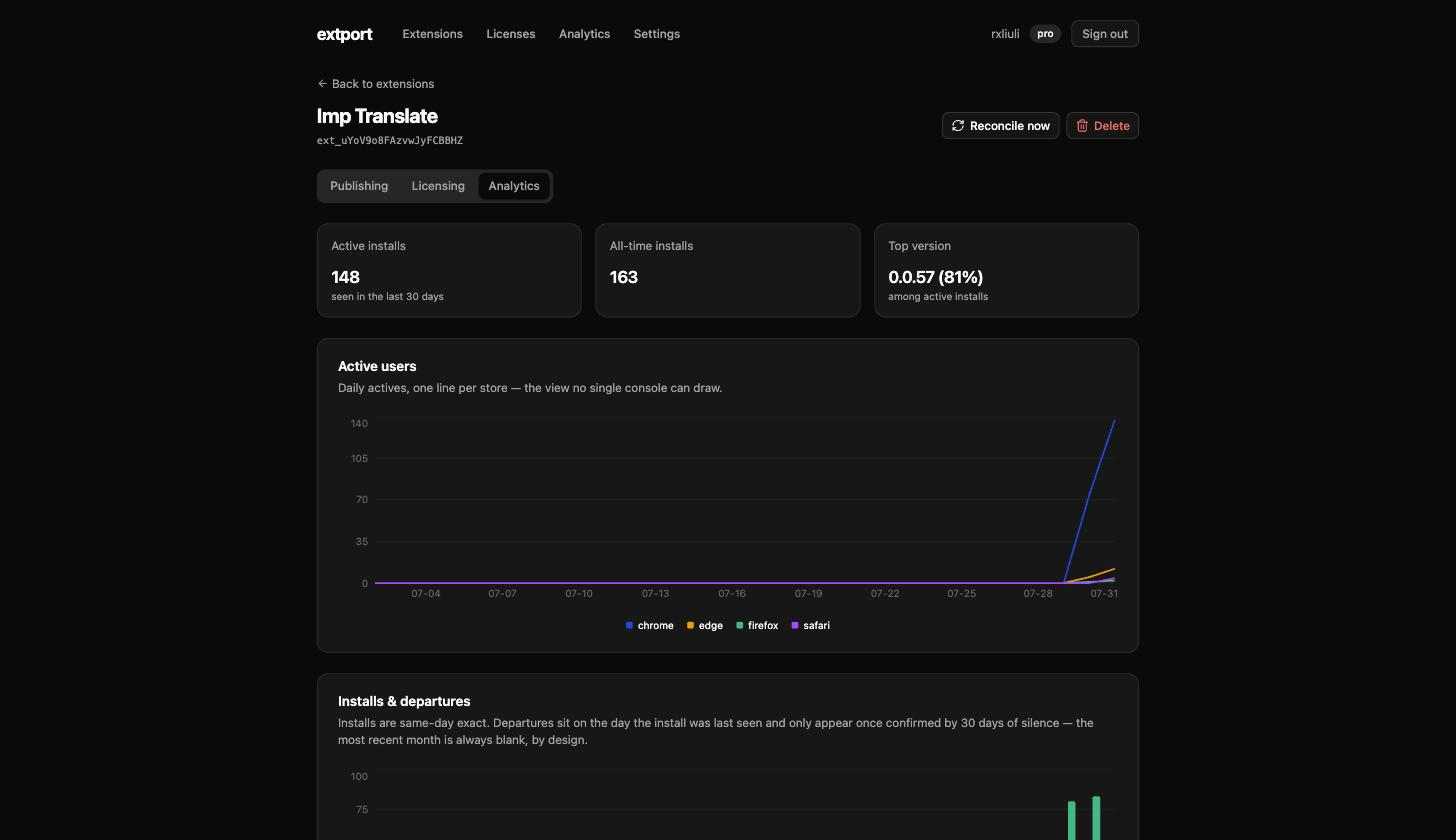
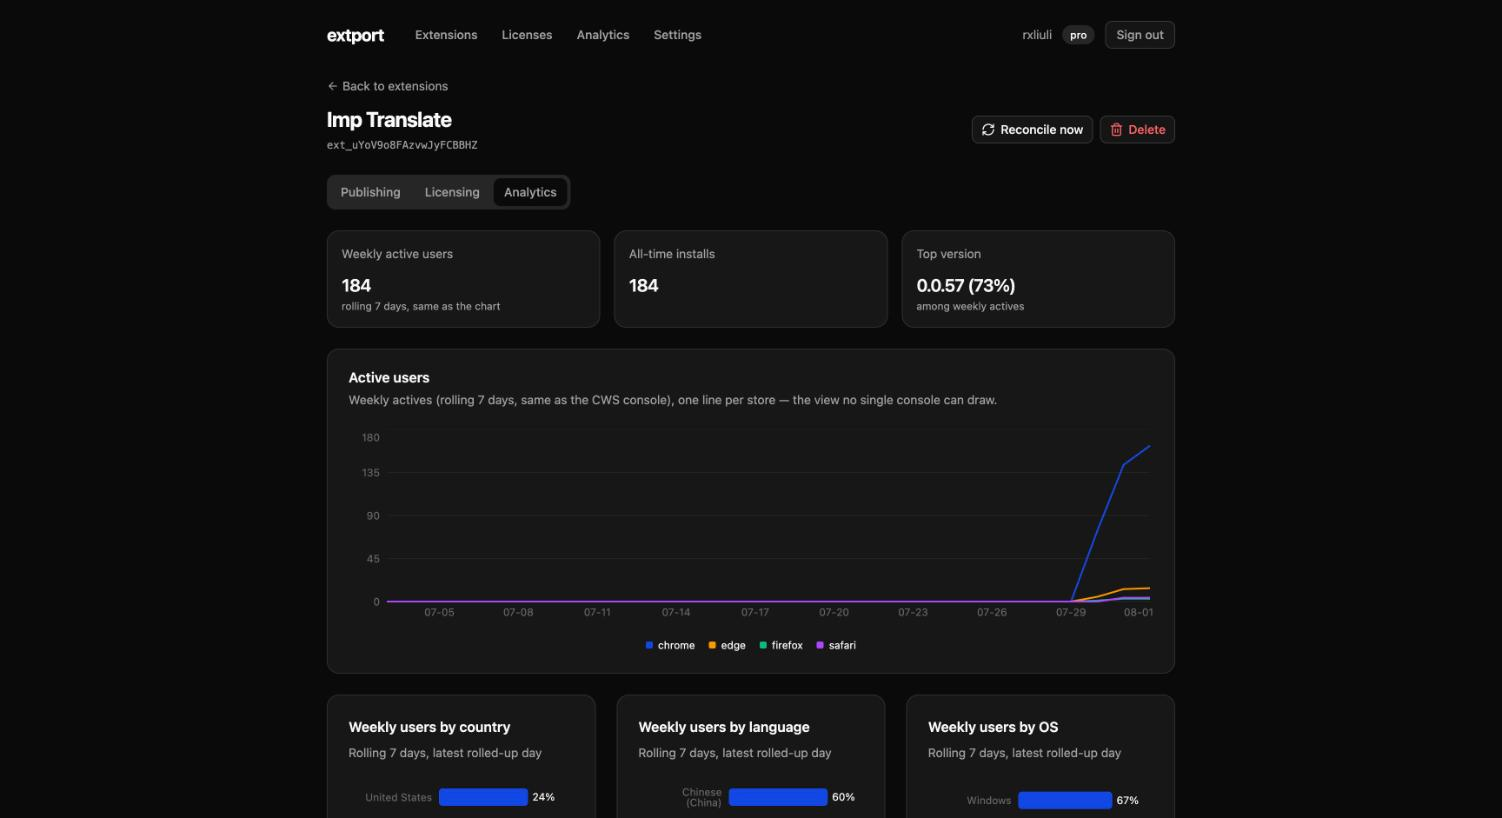
docs: npm READMEs, real getting-started, and the Safari certificate story
The three published packages had no README at all — their npm pages were
blank, which reads as abandoned to anyone arriving from a post. Each now
has a quickstart-shaped one (sdk: licensing + analytics with accurate
API names; wxt: the config block and what each key wires up, plus the
peer-dependency requirement; cli: command table and CI pointer),
published via patch bumps.

getting-started grows from 24 lines to the actual journey: sign-in,
create, then both wiring paths (extport init from scratch vs adding the
id to an existing project), and links all three modules.

The Safari page's certificate section — previously "generate one
yourself" with the real steps deferred to another repo — now explains
where the certificate lives (Apple Developer → Certificates, with a
screenshot anonymized to Apple's own placeholder identity), the
CSR-via-Keychain dance, which type to pick, the .p12 export, and the
base64 encoding, in place. Also retakes the stale analytics screenshot
with the current WAU dashboard.

diff --git a/apps/docs/src/content/docs/stores/safari.md b/apps/docs/src/content/docs/stores/safari.md
@@ -62,15 +62,46 @@ Or from CI:
 This builds and uploads every platform your Xcode project ships (macOS and/or iOS) — Safari's macOS and iOS
 listings run fully independent review timelines under the same App Store Connect app.
 
-### Always pass a signing certificate on CI
+## The signing certificate
 
 `certificate-base64`/`certificate-password` are technically optional, but skipping them on CI will eventually break
 your builds. A GitHub-hosted runner's keychain starts empty every run, so without a certificate already sitting in
 it, cloud signing asks Apple to mint a brand new one each time — and since that certificate's private key is
 destroyed with the runner at the end of the job, it's unusable ever again. Every run silently burns one certificate
 for good until your Apple Developer account hits its cap on how many it'll allow, at which point every build starts
-failing with "Your account has reached the maximum number of certificates." Generate one certificate yourself,
-export it as a `.p12`, base64-encode it, and store it (and its export password) as repo secrets — the same
-certificate works across every extension you build, since it's tied to your Apple Developer account rather than any
-one app. See [`extport-dev/actions`](https://github.com/extport-dev/actions#signing-certificate) for the exact
-steps.
+failing with "Your account has reached the maximum number of certificates."
+
+The fix is to create **one** certificate yourself and reuse it everywhere: it's tied to your Apple Developer
+account, not any one app, so the same `.p12` signs every extension you build.
+
+### Where the certificate comes from
+
+This is a different credential from the App Store Connect API key above — it lives on the
+[Apple Developer → Certificates](https://developer.apple.com/account/resources/certificates/list) page, and
+creating one is a three-step dance between that page and the Keychain Access app on your Mac:
+
+![The Apple Developer Certificates page, showing the certificate list with its Type column ("Distribution", platform "All") and the + button for creating a new one](../../../assets/screenshots/safari-developer-certificates.jpg)
+
+1. **Generate a signing request (CSR) on your Mac.** Open **Keychain Access** (in `/Applications/Utilities`), then
+   menu bar → **Keychain Access → Certificate Assistant → Request a Certificate From a Certificate Authority…**
+   Fill in your email, leave "CA Email Address" empty, choose **Saved to disk**, and save the
+   `CertificateSigningRequest.certSigningRequest` file.
+2. **Create the certificate on Apple's site.** On
+   [the Certificates page](https://developer.apple.com/account/resources/certificates/list), click **+**, choose
+   **Apple Distribution** (one certificate covers both the Mac App Store and iOS App Store), upload the CSR file,
+   and download the resulting `.cer`.
+3. **Install and export as `.p12`.** Double-click the downloaded `.cer` to add it to your keychain, then in
+   Keychain Access under **My Certificates**, right-click the new "Apple Distribution: …" entry →
+   **Export…** → file format **Personal Information Exchange (.p12)** — it will ask you to set an export
+   password. (The `.p12` bundles the certificate *with its private key*, which only exists in the keychain that
+   generated the CSR — that's why the export has to happen on the same Mac.)
+
+Then encode it and store both halves as repo secrets:
+
+```sh
+base64 -i Certificates.p12 | pbcopy   # → APPLE_CERTIFICATE_BASE64
+# the export password you chose      # → APPLE_CERTIFICATE_PASSWORD
+```
+
+Treat the `.p12` and its password like a production key: anyone holding both can sign software as you. Delete the
+local file once the secrets are stored.

diff --git a/apps/docs/src/content/docs/getting-started.md b/apps/docs/src/content/docs/getting-started.md
@@ -1,6 +1,6 @@
 ---
 title: Getting started
-description: Sign in and create your first extension.
+description: Sign in, create your first extension, and pick your path — new project or existing one.
 ---
 
 extport is currently in closed beta — new accounts are reviewed by hand. Sign in once and you'll either land in the
@@ -13,12 +13,54 @@ Go to [dash.extport.dev](https://dash.extport.dev) and sign in with GitHub.
 
 ## 2. Create an extension
 
-Click **Add** and give it a name. This is the thing you'll push versions to and sell licenses for — one extension
-can have a target configured for each of Chrome, Firefox, Edge, and Safari, and its own licensing plans.
+Click **Add** and give it a name. This is the thing you'll push versions to, sell licenses for, and see usage
+analytics on — one extension can have a target configured for each of Chrome, Firefox, Edge, and Safari, and its
+own licensing plans.
 
 ![The Extensions list with a "Redirector" extension added, showing empty Chrome/Firefox/Edge/Safari status columns](../../assets/screenshots/dashboard-extensions-list.png)
 
+The name matters more than it looks: it's the identity your licensing plans verify against, so it freezes while
+licensing is enabled. Pick the name your extension actually ships under.
+
+## 3. Wire up your project
+
+Two paths, depending on where you're starting from:
+
+**Starting a new extension?** Let the scaffold do all of it:
+
+```sh
+npx extport login
+npx extport init
+```
+
+`extport init` creates a [WXT](https://wxt.dev) project pre-wired with [`@extport/wxt`](https://www.npmjs.com/package/@extport/wxt),
+bound to a real extension record from birth — including the GitHub Actions workflow that pushes to every store when
+you bump the version. It can also create the extension record for you, so steps 2 and 3 collapse into one.
+
+**Have an existing extension?** Add the id to your project so the CLI, SDK, and CI all resolve it without
+hardcoding:
+
+```ts
+// wxt.config.ts (WXT projects — recommended)
+export default defineConfig({
+  modules: ['@extport/wxt'],
+  extport: { extension: 'ext_…' }, // the id shown under your extension's name in the dashboard
+})
+```
+
+Not on WXT? Create `extport.config.json` next to your `package.json` instead:
+
+```json
+{ "extension": "ext_…" }
+```
+
 ## What's next
 
-- [Publishing](/publishing/) — add store credentials, connect a store target, and push your first build.
-- [Licensing](/licensing/) — sell activation codes through your own Stripe Payment Link.
+Each module is independent — adopt any of them, in any order:
+
+- [Publishing](/publishing/) — add store credentials, connect store targets, and push your first build to every
+  store from one command.
+- [Licensing](/licensing/) — sell lifetime activation codes through your own Stripe Payment Link; extport fulfills
+  and verifies them.
+- [Analytics](/analytics/) — one anonymous ping per install per day, rolled up into weekly actives, installs, and
+  version adoption across all four stores.

diff --git a/packages/sdk/README.md b/packages/sdk/README.md
@@ -1,0 +1,79 @@
+# @extport/sdk
+
+License activation and anonymous usage analytics for browser extensions publishing through [extport](https://extport.dev) — sell lifetime licenses through your own Stripe Payment Link and see active users across Chrome, Firefox, Edge, and Safari in one dashboard.
+
+The server is the only source of truth: activations verify online and cache the resulting entitlement locally. There is deliberately no client-side cryptography to reverse-engineer.
+
+## Install
+
+```sh
+pnpm add @extport/sdk
+```
+
+## Licensing
+
+```ts
+// lib/activation.ts — shared by every context
+import { createActivationClient } from '@extport/sdk'
+import { webextTransport } from '@extport/sdk/webext'
+
+interface PlanLimit {
+  records: number
+}
+
+const plans: Record<'free' | 'pro', PlanLimit> = {
+  free: { records: 100 },
+  pro: { records: Number.MAX_SAFE_INTEGER },
+}
+
+export const activationClient = createActivationClient<'free' | 'pro', PlanLimit>({
+  plans,
+  transport: webextTransport(),
+})
+```
+
+`extensionId` resolves automatically when the extension is built with [`@extport/wxt`](https://www.npmjs.com/package/@extport/wxt) (`extport: { extension: 'ext_…' }`); otherwise pass it explicitly.
+
+```ts
+// Redeem a code the buyer received by email
+await activationClient.activate('XXXX-XXXX-XXXX-XXXX')
+
+// Gate a feature — always reads current persisted state
+const plan = await activationClient.getPlan()
+if (count > plan.limit.records) showUpgradePrompt()
+
+// Periodic heartbeat + self-healing re-activation (call from the background)
+await activationClient.checkActivation()
+```
+
+React rendering layer:
+
+```tsx
+import { usePlan } from '@extport/sdk/react'
+
+function Paywall() {
+  const plan = usePlan(activationClient)
+  return plan.tier === 'pro' ? <ProBadge /> : <UpgradeButton />
+}
+```
+
+Guide: [docs.extport.dev/licensing](https://docs.extport.dev/licensing/)
+
+## Analytics
+
+One anonymous ping per install per day — a random install id, version, and browser UI language; browser, OS, and country derive server-side from the request. No URLs, no page content, no behavioral data.
+
+```ts
+// entrypoints/background.ts
+import { attachAnalytics } from '@extport/sdk/analytics'
+
+attachAnalytics() // extensionId auto-resolves via @extport/wxt, or pass { extensionId: 'ext_…' }
+```
+
+With `@extport/wxt` this is a single config flag (`analytics: true`) instead. Firefox's built-in data-collection consent (`technicalAndInteraction`) is respected automatically. A provider for [`@wxt-dev/analytics`](https://www.npmjs.com/package/@wxt-dev/analytics) ships as `@extport/sdk/wxt-analytics`.
+
+Guide: [docs.extport.dev/analytics](https://docs.extport.dev/analytics/)
+
+## License
+
+MIT

diff --git a/packages/wxt/README.md b/packages/wxt/README.md
@@ -1,0 +1,42 @@
+# @extport/wxt
+
+[WXT](https://wxt.dev) module for extensions publishing through [extport](https://extport.dev): one config block wires up store publishing metadata, license/analytics identity injection, and Safari's Xcode project generation.
+
+## Install
+
+```sh
+pnpm add -D @extport/wxt
+```
+
+```ts
+// wxt.config.ts
+export default defineConfig({
+  modules: ['@extport/wxt'],
+  extport: {
+    extension: 'ext_…', // your extension's extport id
+    analytics: true, // optional: daily anonymous usage ping
+    safari: {
+      // optional: build a Safari App Store target
+      appCategory: 'public.app-category.productivity',
+      bundleIdentifier: 'com.example.my-extension',
+      developmentTeam: 'ABCDE12345',
+    },
+  },
+})
+```
+
+## What it does
+
+- **`extension`** — syncs the id into `extport.config.json` (the static file [`extport` CLI](https://www.npmjs.com/package/@extport/cli) and [extport-dev/actions](https://github.com/extport-dev/actions) read) and injects `globalThis.__EXTPORT__.extensionId` into every entrypoint, so [`@extport/sdk`](https://www.npmjs.com/package/@extport/sdk)'s licensing and analytics resolve their identity with zero hardcoding.
+- **`analytics: true`** — attaches the daily ping to your background entrypoint and adds Firefox's `data_collection_permissions` declaration to the manifest. Explicit opt-in; nothing is collected without it. Requires `@extport/sdk` as a dependency.
+- **`safari: { … }`** — on `wxt build -b safari` / `wxt zip -b safari`, converts the build output into a signed-ready Xcode project (macOS and/or iOS) for [`extport safari-build`](https://docs.extport.dev/stores/safari/) to compile and upload.
+
+## Requirements
+
+`wxt` is a peer dependency (`>=0.20`). The 0.20.x line is what the module is battle-tested against; wxt 0.21.x currently ships an experimental Vite 8/Rolldown pipeline with known build issues independent of this module.
+
+Docs: [docs.extport.dev](https://docs.extport.dev)
+
+## License
+
+MIT

diff --git a/packages/cli/README.md b/packages/cli/README.md
@@ -1,0 +1,36 @@
+# @extport/cli
+
+Command-line client for [extport](https://extport.dev) — scaffold a browser extension wired for Chrome, Firefox, Edge, and Safari, and push builds to every store from one command.
+
+## Install
+
+```sh
+npx extport login   # authorize this machine via your browser
+```
+
+No global install needed — `npx extport` (or `pnpm dlx extport`) resolves the `extport` bin from this package.
+
+## Commands
+
+| Command | What it does |
+| --- | --- |
+| `extport login` / `logout` / `whoami` | Browser-based device authorization; credentials stored locally |
+| `extport init` | Scaffold a new extension project (WXT + `@extport/wxt`), bound to a real extport extension record from birth |
+| `extport push` | Upload a zip and publish it to configured stores — version inferred from the manifest, store targets from `extport.config.json` |
+| `extport safari-build` | Build, sign, and upload the Safari/Xcode target to App Store Connect (runs on your machine or CI — your Apple credentials never touch extport) |
+
+```sh
+# Push the WXT build output to every configured store
+npx extport push
+
+# Or one store, one file, explicitly
+npx extport push --store chrome --file .output/my-extension-1.2.3-chrome.zip
+```
+
+In CI, use [extport-dev/actions](https://github.com/extport-dev/actions) — same operations as GitHub Actions steps, with the version-change detection and store submission wired up.
+
+Docs: [docs.extport.dev](https://docs.extport.dev)
+
+## License
+
+MIT
